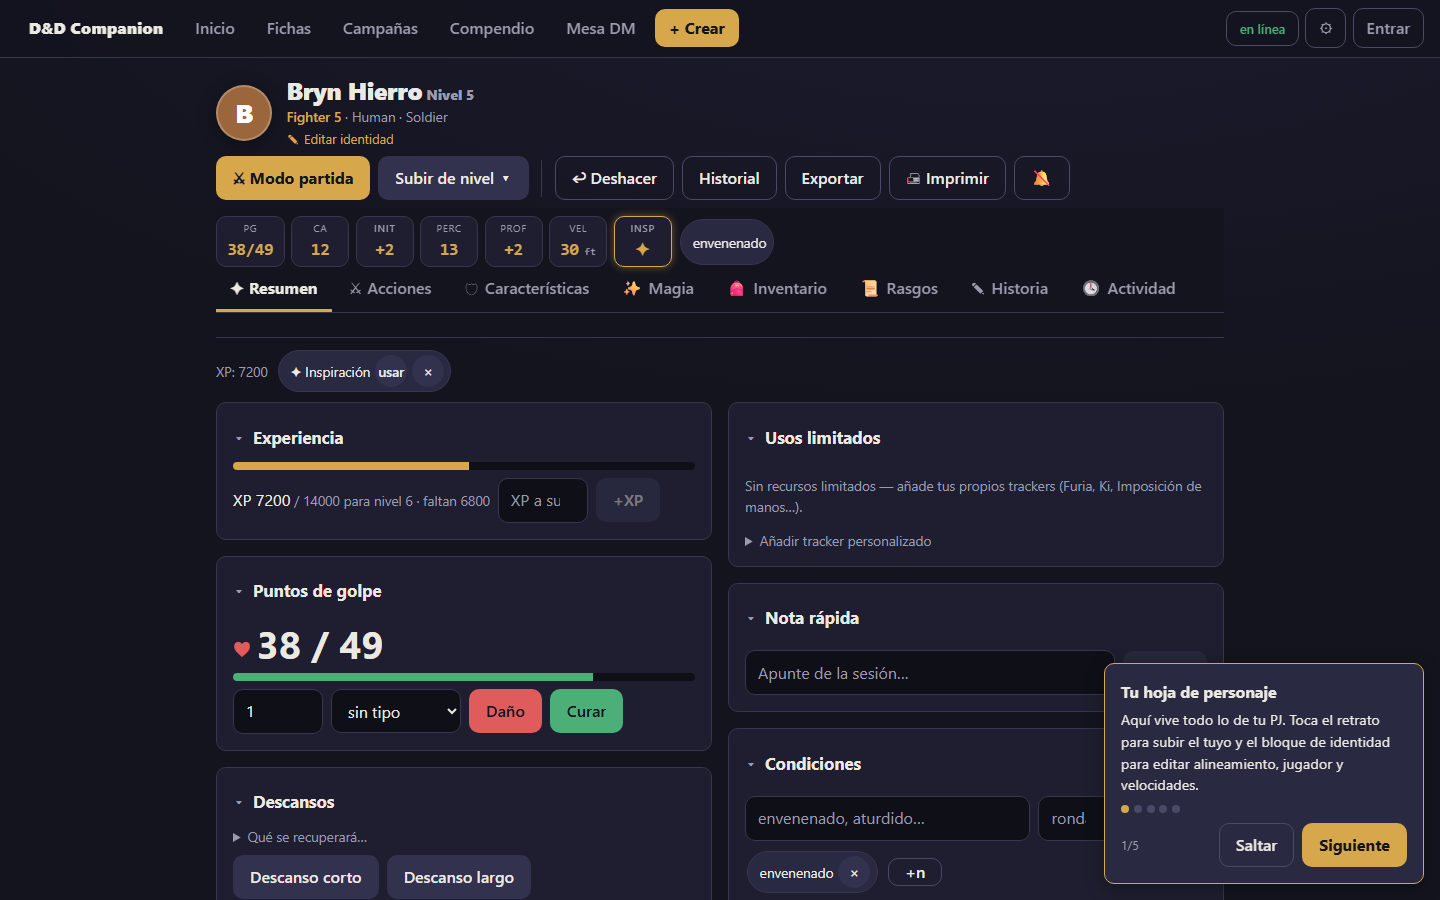
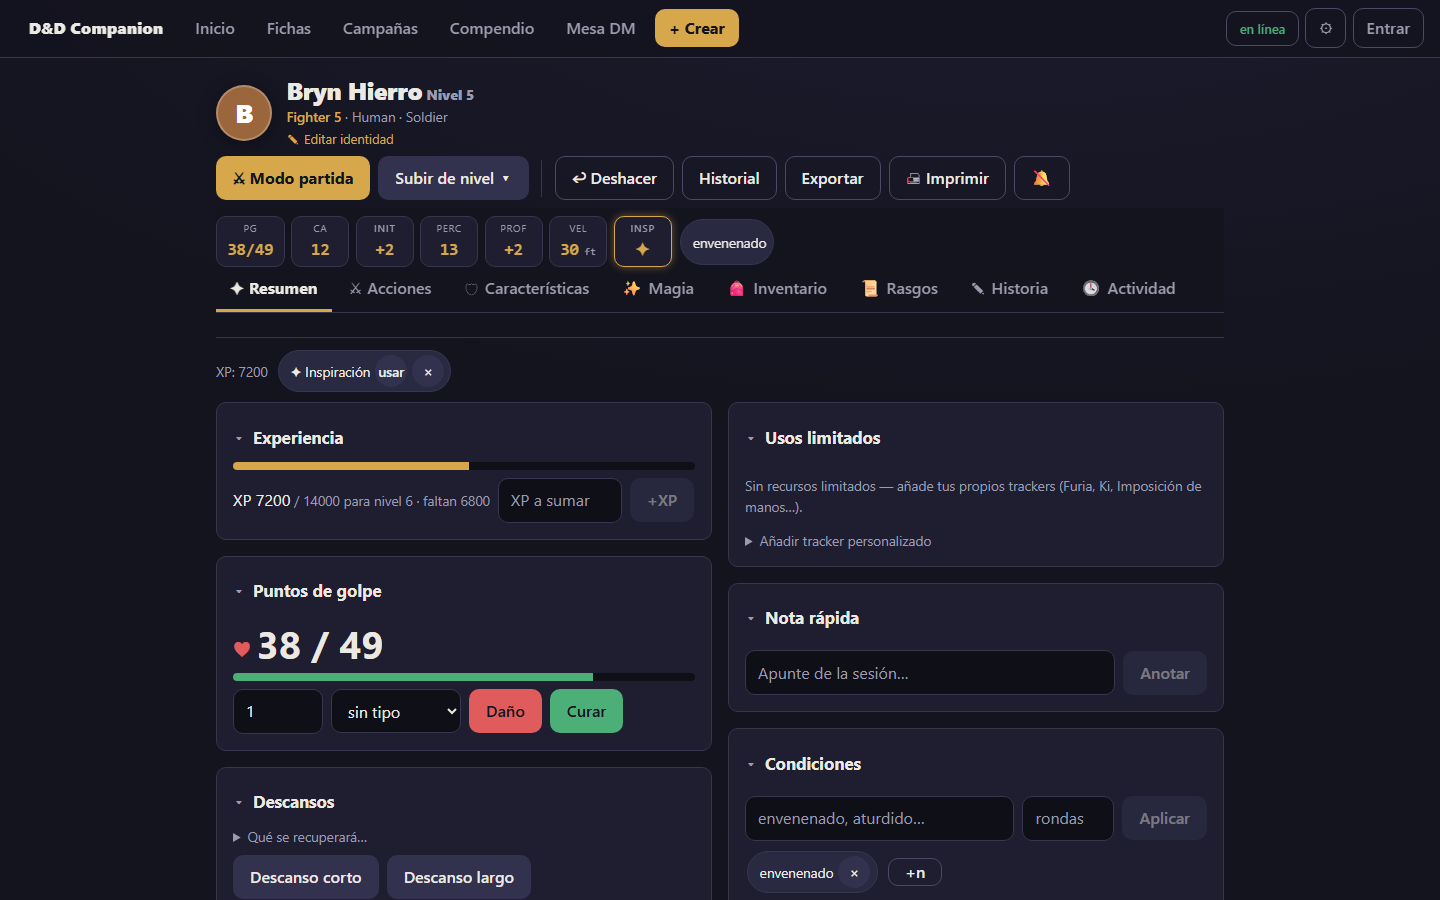
fix(ui): consistencia en estados vacios y capturas regeneradas
- derived can_cast distingue lanzadores del fallback 'int': la nota
  'tu clase no lanza conjuros' era inalcanzable (ability siempre
  truthy). Fighter=false, Wizard=true, verificado por API.
- Dashboard: CTA de bienvenida solo cuando las listas cargadas estan
  vacias — antes bastaba no tener last-char/campaign en localStorage
  y contradecia las metricas de Tu mesa.
- Dialogs: aria-label en el input del prompt (el titulo lo nombra).
- test_render: expectativa stale 'nivel 3' -> '3' (cambio deliberado
  de bc49cad: el campo ya lleva label 'Nivel').
- Regeneradas capturas principales a 1440x900 con parametros
  uniformes (tema oscuro, tour cerrado) tras los fixes previos.

Generated with [Devin](https://devin.ai)

Changed region(s): [[0.7188, 0.7156, 1.0, 0.9956], [0.4062, 0.5289, 0.4688, 0.5911]]

diff --git a/frontend/src/pages/Dashboard.jsx b/frontend/src/pages/Dashboard.jsx
@@ -80,7 +80,11 @@ export default function Dashboard() {
               <strong style={{ fontSize: '1.15rem' }}>{lastCamp.name}</strong>
               <span className="muted">{relTime(lastCamp.at)}</span>
             </Link>)}
-          {!lastChar && !lastCamp && (
+          {/* CTA de bienvenida solo para usuarios SIN contenido —
+              con fichas/campañas el mensaje 'empieza creando' quedaba
+              contradictorio junto a las estadísticas de Tu mesa */}
+          {!lastChar && !lastCamp &&
+            chars?.length === 0 && camps?.length === 0 && (
             <div className="empty" style={{ textAlign: 'left' }}>
               <p style={{ fontSize: '1.05rem', marginTop: 0 }}>
                 🎲 <strong>{t('dash.firstTime')}</strong></p>

diff --git a/frontend/src/components/sheet/TabMagia.jsx b/frontend/src/components/sheet/TabMagia.jsx
@@ -92,9 +92,11 @@ export default function TabMagia({ c }) {
                   .replace(/-/g, ' ')} />
       {/* guía para no-lanzadores: la pestaña queda casi vacía y el
           picker parece roto sin esta pista (las subclases arcanas
-          sí la usan) */}
+          sí la usan). can_cast viene del derived — el fallback 'int'
+          del backend hacía truthy spellcasting_ability para TODAS
+          las clases y la nota nunca se veía */}
       {(d.spells_known || []).length === 0 &&
-        !derived?.spellcasting_ability && (
+        derived?.can_cast === false && (
         <p className="muted">{t('mag.noCaster')}</p>)}
       {(d.spells_prepared || []).length > 0 && derived && (
         <p className="muted">

diff --git a/frontend/src/components/ui/Dialogs.jsx b/frontend/src/components/ui/Dialogs.jsx
@@ -83,6 +83,7 @@ export function DialogProvider({ children }) {
         <Dialog title={req.title} onClose={() => close(null)}>
           <form onSubmit={(e) => { e.preventDefault(); close(value) }}>
             <input value={value} autoFocus
+                   aria-label={req.title}
                    onChange={(e) => setValue(e.target.value)} />
             <div className="dlg-actions">
               <button type="button" className="ghost"

diff --git a/backend/app/api/characters.py b/backend/app/api/characters.py
@@ -608,11 +608,17 @@ def derived_all(character_id: str,
 
     # conjuros: característica de lanzamiento según la clase
     # (multi-schema — classinfo cubre 5e-bits/5etools/open5e)
+    # can_cast distingue lanzadores reales del fallback 'int': sin él
+    # un fighter llevaba ability=INT y la UI no podía detectarlo
     cast_ability = "int"
+    can_cast = False
     if char.classes:
         from ..domain.classinfo import spellcasting_ability
         cls = _content_row(char.classes[0].class_id) or {}
-        cast_ability = spellcasting_ability(cls) or "int"
+        raw = spellcasting_ability(cls)
+        if raw is not None:
+            cast_ability = raw
+            can_cast = True
     cast_mod = char.abilities.modifier(cast_ability)
     from ..rules import rules
     cbase = rules()["combat"]
@@ -627,6 +633,7 @@ def derived_all(character_id: str,
                          char.proficiency_bonus + cast_mod,
         "spell_attack": char.proficiency_bonus + cast_mod,
         "spellcasting_ability": cast_ability,
+        "can_cast": can_cast,
         # tope 2014/2024: nivel total + mod de lanzamiento (mín. 1)
         "prepared_limit": max(1, char.total_level + cast_mod),
         "proficiency_bonus": char.proficiency_bonus,

diff --git a/backend/tests/test_render.py b/backend/tests/test_render.py
@@ -36,7 +36,7 @@ def test_render_spell_fields():
          "higher_level": ["+1d6 por nivel extra."]}
     out = render.render("spell", d)
     labels = {f["label"]: f["value"] for f in out["fields"]}
-    assert labels["Nivel"] == "nivel 3"
+    assert labels["Nivel"] == "3"
     assert labels["Escuela"] == "Evocación"
     assert labels["Concentración"] == "sí"
     assert labels["Componentes"] == "v, s"
